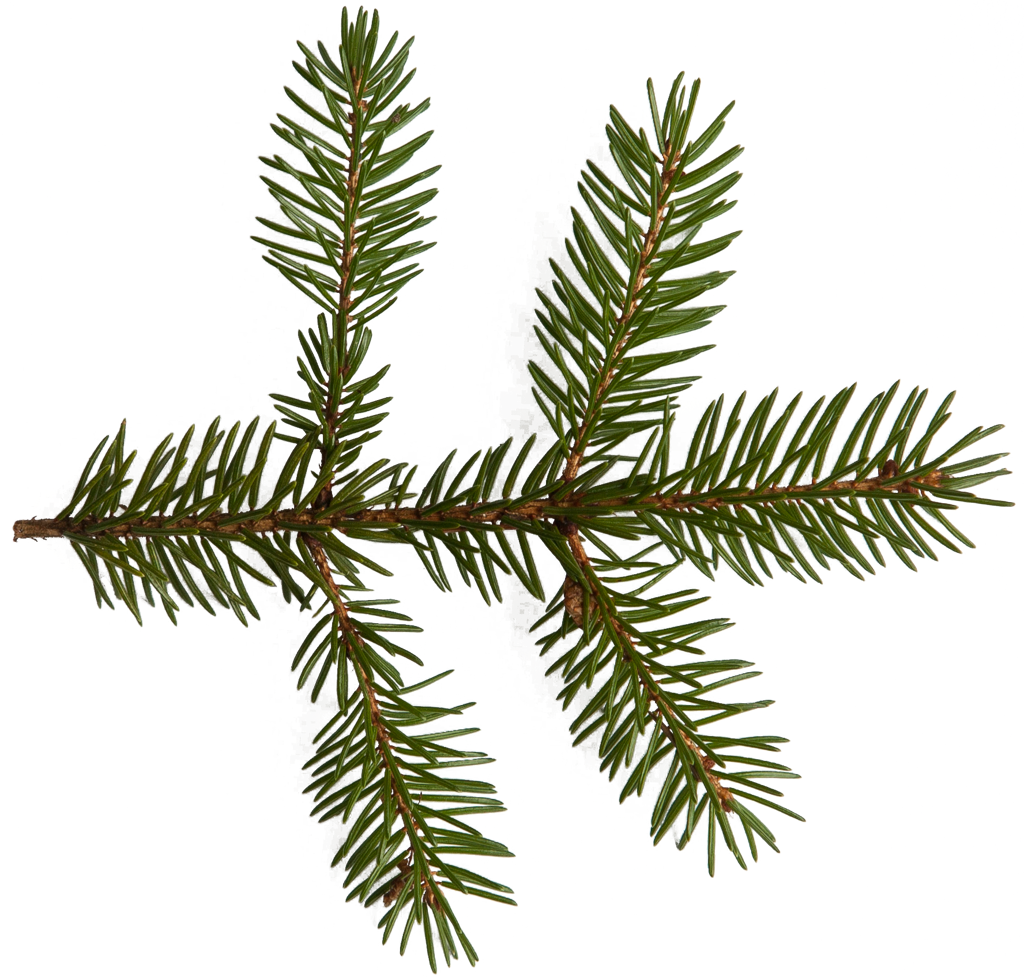
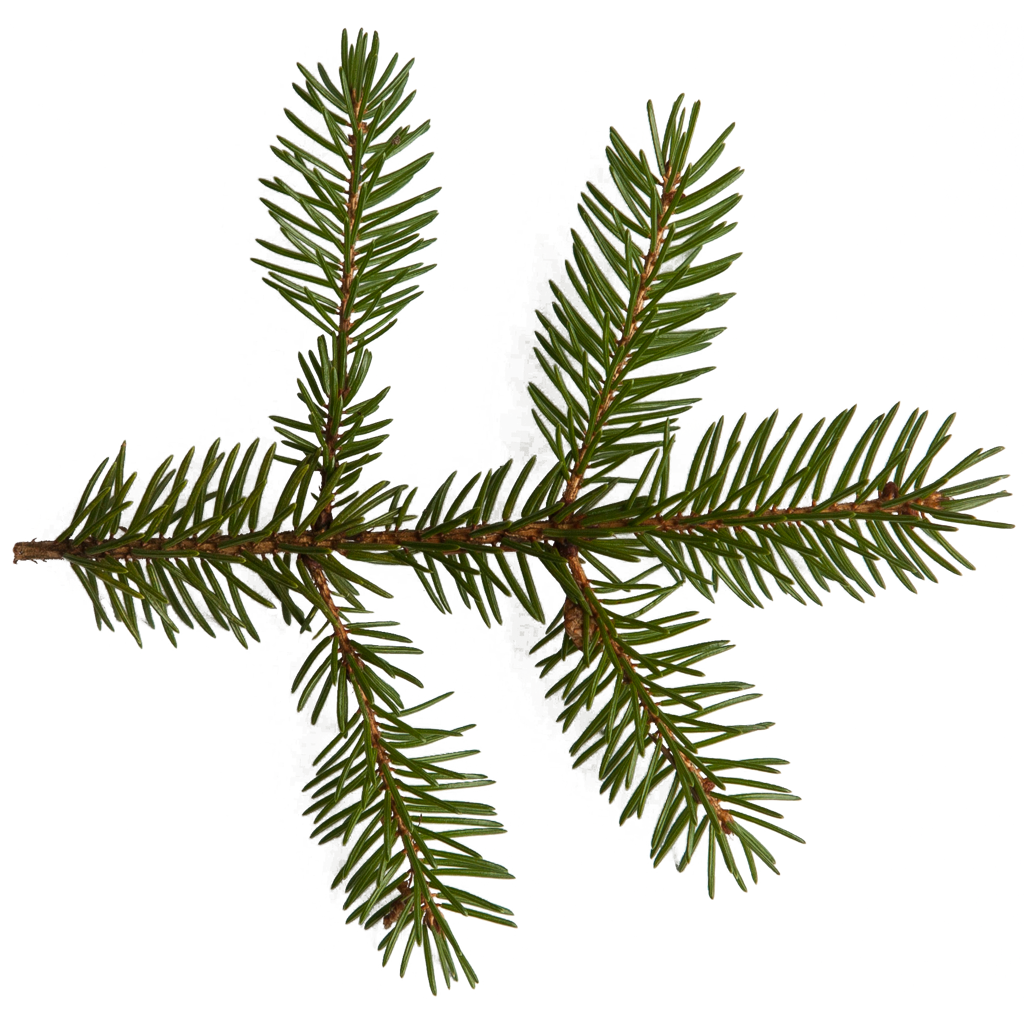
Fix dimensione e distribuzione foglie

Changed region(s): [[0.0, 0.0, 1.0, 1.0]]

diff --git a/src/tree-gen.cpp b/src/tree-gen.cpp
@@ -5,8 +5,8 @@ using namespace ygl;
 
 const auto e = 2.05f;     // esponente per sommatoria dei raggi
 const auto r0 = 0.01f;          // raggio iniziale
-const auto leaf_threshold = r0 * 2;
-const auto tree_leaf_ratio = 100;
+const auto leaf_threshold = r0 * 3;
+const auto tree_leaf_ratio = 35;
 const auto eps = 1e-4f;
 
 // Semafori per la mutua esclusione
@@ -256,8 +256,8 @@ shape* load_leaf(scene* scn, const std::string& leaf_txt, float scale)
 {
     auto shp = new shape{"leaf"};
 
-    shp->pos = std::vector<vec3f>{{-0.5, 0, 0}, {-0.5, 0, 3}, {0.5, 0, 3}, {0.5, 0, 0},
-                                  {-0.5, 0, 0}, {-0.5, 0, 3}, {0.5, 0, 3}, {0.5, 0, 0}};
+    shp->pos = std::vector<vec3f>{{-0.5, 0, 0}, {-0.5, 0, 1}, {0.5, 0, 1}, {0.5, 0, 0},
+                                  {-0.5, 0, 0}, {-0.5, 0, 1}, {0.5, 0, 1}, {0.5, 0, 0}};
 
     for (auto i = 0; i < 8; i++)
     {
@@ -283,6 +283,8 @@ shape* load_leaf(scene* scn, const std::string& leaf_txt, float scale)
     return shp;
 }
 
+// This implementation comes from the pseudocode in Andrew J. Hanson and Hui,
+// Parallel Transport Approach to Curve Framing (1995)
 inline frame3f parallel_trans_frame(const vec3f &pos, const vec3f &tangent, const frame3f &pframe)
 {
     auto b = cross(tangent, pframe.z);
@@ -415,13 +417,12 @@ int main(int argc, char** argv)
     auto iter_num = parse_opt(parser, "--iter-num", "-i", "Number of iterations", 100);
     auto leaf_txt = parse_opt(parser, "--leaf", "-l", "Leaves or flowers texture", "resources/leaf.png"s);
     auto path = parse_opt(parser, "--output", "-o", "Output directory", "out"s);
-    auto make_scene = parse_flag(parser, "--make-scene", "-s", "Add camera and environment");
-    auto crown = parse_arg(parser, "crown shape", "Crown's shape", ""s, true, {"CONICAL", "CYLINDRICAL", "BEZIER"});
+    auto crown = parse_arg(parser, "crown shape", "Crown's shape", ""s, true, {"CONE", "CYLINDER", "DOME", "BEZIER"});
     auto trunk = parse_arg(parser, "trunk height", "Trunk's height", 0.0f, true);
 
     vec2f p0, p1, t0, t1;
 
-    if (crown == "CYLINDRICAL"s || crown == "CONICAL"s)
+    if (crown == "CYLINDER"s || crown == "CONE"s)
     {
         auto height = parse_arg(parser, "crown height", "Crown's height", 0.0f, true);
         auto radius = parse_arg(parser, "crown radius", "Crown's radius", 0.0f, true);
@@ -432,6 +433,15 @@ int main(int argc, char** argv)
              : vec2f{trunk + height, 1};
         t0 = p0;
         t1 = p1;
+    }
+    else if (crown == "DOME"s)
+    {
+        auto radius = parse_arg(parser, "crown radius", "Crown's radius", 0.0f, true);
+
+        p0 = {trunk, radius};
+        p1 = {trunk + radius, 1};
+        t0 = {trunk + radius / 2, radius};
+        t1 = {trunk + radius, radius / 2};
     }
     else if (crown == "BEZIER"s)
     {
@@ -467,28 +477,6 @@ int main(int argc, char** argv)
     auto leaf = load_leaf(scn, leaf_txt, p1.x / tree_leaf_ratio);
 
     draw_tree(scn, D, pos, par, leaf);
-
-    if (make_scene)
-    {
-        log_info("Creating scene...");
-
-        auto inst = new instance{"tree", identity_frame3f, scn->shapes.back()};
-        scn->instances.push_back(inst);
-        inst = new instance{"leaf", identity_frame3f, scn->shapes.front()};
-        scn->instances.push_back(inst);
-
-        auto sky = new texture{"sky", "sky.hdr"};
-        sky->hdr = make_sunsky_image(720, pif / 6);
-        scn->textures.push_back(sky);
-
-        auto env = new environment();
-        env->name = "sky";
-        env->ke = {1, 1, 1};
-        env->ke_txt = scn->textures.back();
-        scn->environments.push_back(env);
-
-        scn->cameras.push_back(make_view_camera(scn, 0));
-    }
 
     log_info("Saving model...");
 
